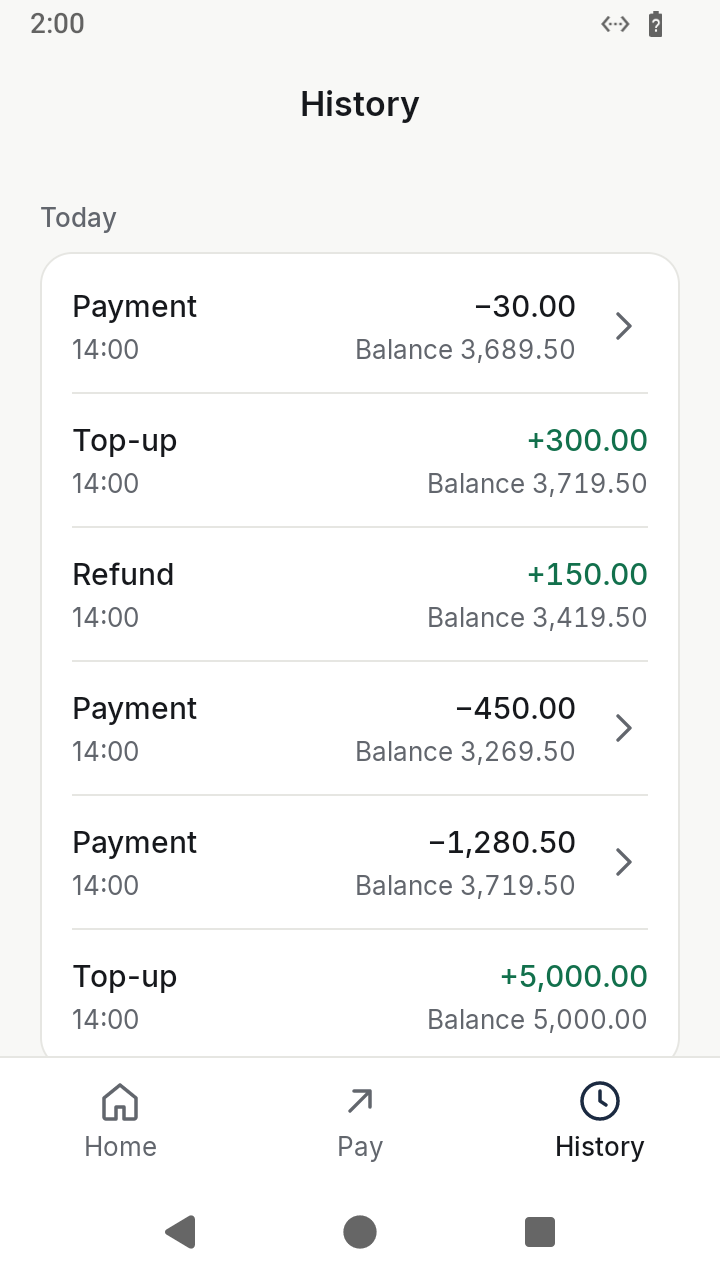
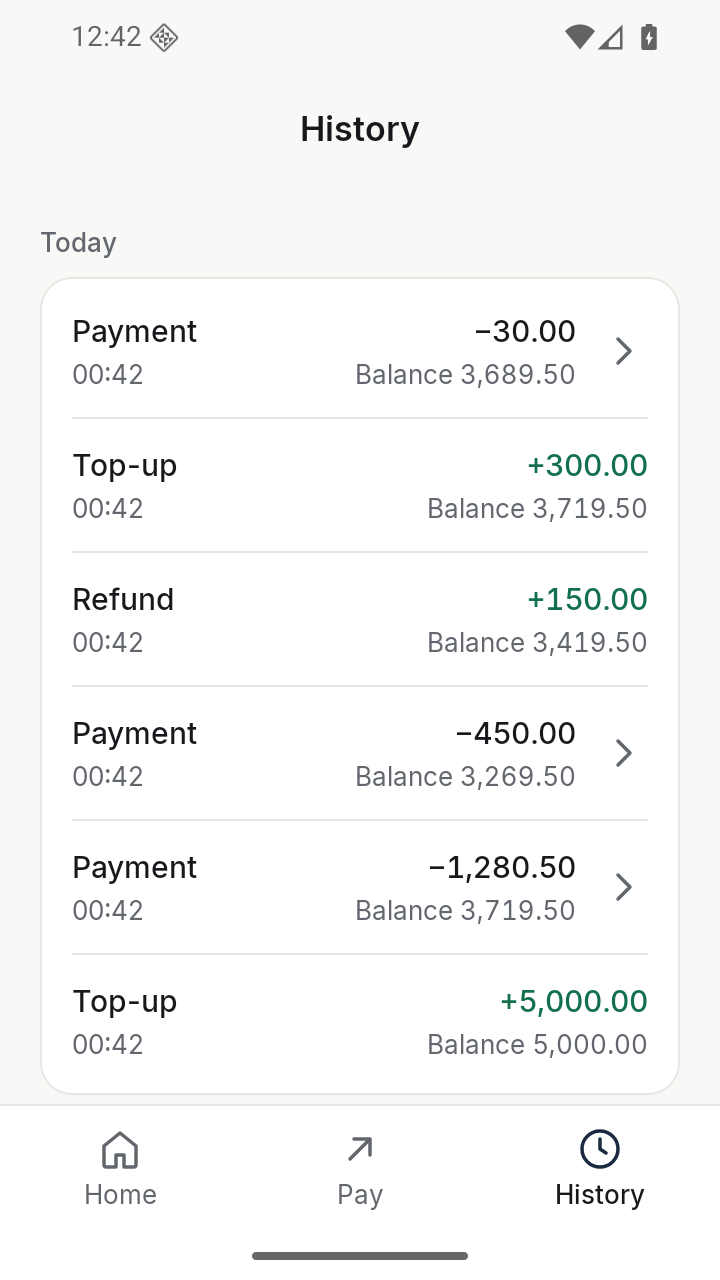
docs: SPEC 2.12, README and new screenshots of all three clients
SPEC: line height in the platform differences (§5), IOS-018 (§8, §9),
2.12 in §11. README: IOS-018, the iOS run count and a row in the table
of what was found.

The screenshots were taken again with tools/screenshots.py --ios: the
iOS ones for the new line heights, the web ones for 2.11's tabular
figures, the Android ones with the same data.

Claude-Session: https://claude.ai/code/session_01TJWnSQSGGduBikQ5E6x8NY

diff --git a/SPEC.md b/SPEC.md
@@ -2,11 +2,11 @@
 
 | | |
 |---|---|
-| Version | 2.11: the API's 12-digit limit in every client's amount grammar, and tabular figures on the web (see §11) |
+| Version | 2.12: the iOS app's text styles keep their line heights (see §11) |
 | Date | 2026-10-13 |
 | Status | **Web: implemented.** Rules marked *script* were checked against the running page with a browser script; *review* means checked by reading the code. **Android app: every screen implemented**; its rules are checked on redroid (Android 14) and on Google's Android Emulator (Android 16) by the Appium cases in `tests/app/`. A rule stays *planned* until it is checked in full. **iOS app: first stage** (Start, Home, Pay), checked on the iOS simulator by the Appium cases in `tests/ios/`, on a Mac, not yet in CI. The rule tables get an iOS column when the iOS app has every screen; until then §8 lists what its cases cover |
 | Code | Web: `web/src/` (React 19 + Vite), served by the API under `/app`. App: `android/` (Kotlin, Jetpack Compose). iOS: `ios/` (Swift, SwiftUI) |
-| Tests | Web: Playwright for Python, `tests/web/` (WEB-001 to WEB-017). App: Appium for Python, `tests/app/` (APP-001 to APP-017). iOS: Appium (XCUITest) for Python, `tests/ios/` (IOS-001, 003, 005, 006, 008) |
+| Tests | Web: Playwright for Python, `tests/web/` (WEB-001 to WEB-017). App: Appium for Python, `tests/app/` (APP-001 to APP-017). iOS: Appium (XCUITest) for Python, `tests/ios/` (IOS-001, 003, 005, 006, 008, 018) |
 
 ## 1. Purpose
 
@@ -132,6 +132,7 @@ The rules are written once; where the platforms differ, this table says how each
 | A pending attempt survives… | navigation inside the pay screen only | navigation, screen rotation and process death (K-08) | navigation inside the pay screen only, for now (K-08 planned) |
 | System back | the browser's back follows the URL history | defined by N-01 | none: iOS has no system Back button, and the app uses no navigation stack, so there is no back swipe either |
 | Digits in patterns (R-04) | `[0-9]`; JavaScript's `\d` is ASCII anyway | `[0-9]`: on Android `\d` matches any script's digits (the regex engine is ICU), on the JVM that runs the unit tests it does not. The API writes `[0-9]` too: Python's `\d` accepted `１００` | `[0-9]`, anchored with `\A` and `\z`: in ICU, `$` also matches before a final line break |
+| Line height (§3's text styles) | CSS `line-height`: half the leading above the text, half below | Compose `lineHeight`, centred in it (`LineHeightStyle.Alignment.Center`, no trim) | SwiftUI has no line height: the leading goes between lines (line spacing) and half of it above and below the text, scaled with Dynamic Type (`Theme.swift`); IOS-018 |
 | Text that does not fit (L-01) | the browser's flex layout: a label never shrinks below its longest word | Compose has no such floor: rows measure the label's longest word and leave it that width | the currency moves under the balance when it does not fit (`ViewThatFits`); not checked by a case yet |
 
 ## 6. Rules
@@ -372,6 +373,7 @@ a simulator, so pytest collects them only with `--ios`.
 | IOS-005 | APP-005 | Pay `10.555`, `1000000000000`, `99999999999999999999` (one run each; the decimal pad has no minus sign, `e` or space) → Confirm shows it as typed, with no *Balance after*; refused with E-01; nothing moves | R-02, R-04, K-04, E-01 | the 13-digit amount, on the build before 2.11: Confirm showed `1,000,000,000,000.00` |
 | IOS-006 | APP-006 | Pay more than the balance → refused with E-02; nothing charged; **Change amount** keeps the input | R-02, K-04, E-02 | |
 | IOS-008 | APP-008 | The server charges, the response is lost → *no answer* → **Retry** → receipt with `replayed`; both requests carried the same key; one row | K-03, K-06 | `no_idempotency`; by hand: the app creating a new key on every submit (§9) |
+| IOS-018 | — (iOS only) | The text styles keep their line heights (§5): on Home, the latest entries are 67 pt apart (12 + 22 + 2 + 18 + 12, and the hairline); on the payment receipt, the rows are 47 pt apart (12 + 22 + 12, and the hairline), as on the web and Android. Measured between rows, since SwiftUI reports a container's frame without its padding | §3 | the build before 2.12: 61 and 43 pt apart |
 
 **The two clients against each other.** The cases above prove that each client meets this
 specification; `tools/parity_check.py` proves that the two agree. It sends the same 44 amounts
@@ -406,7 +408,7 @@ spaces collapsed, as HTML displays them.
 script (§6), but nothing checks them on every change. None of them can move money.
 
 **iOS.** IOS-001, 003, 005, 006 and 008 cover R-02, R-04, K-01, K-03, K-04, K-06, D-01, D-02, E-01 and E-02 on the
-iOS app (§8); every other rule is still planned there.
+iOS app (§8), and IOS-018 the text styles' line heights (§3); every other rule is still planned there.
 
 **Rules that live only in the client.** WEB-007, 012 to 017 and APP-007, 012, 013, 014, 016, 017 test
 rules that live in the client (the in-flight guard, the disabled button, the pending attempt, the
@@ -485,6 +487,7 @@ say the payment had already gone through.
 
 | Version | Change |
 |---|---|
+| 2.12 | **The iOS app's text styles keep their line heights.** Found by the three-client measurement of 2.11: every line of text on iOS was only as high as Inter itself (18 pt for Body instead of 22, 16 for Caption instead of 18), so a ledger row was 61 pt instead of 67, a receipt row 43 instead of 47, and every screen sat tighter than on the web and Android. SwiftUI has no line height; the app had set the difference as line spacing, which goes only between lines. Half of it now also goes above and below the text, as CSS and Compose place it, scaled with Dynamic Type (§5). Measured again at the same width, the iOS screens are within 3 pt of Android's; the rest comes from Android's larger touch target (48 dp against 44 pt) and from SwiftUI's frames, which leave out the padding. IOS-018 measures two kinds of row; it failed on the build before. The screenshots in the README were taken again for all three clients (the web's also show 2.11's tabular figures). |
 | 2.11 | **Two defects found by comparing the three clients** on the same screens at the same width, with every hook's position and size measured. (1) **The clients' *plain* grammar had no 12-digit limit**, which the API's has: an amount of 13 or more digits was converted for Confirm although the API refuses it. Each client then broke in its own way: the **Android app crashed** on Confirm with a 20-digit amount (`NumberFormatException`: the cents overflowed a `Long`); the **web showed a different number** past 2^53, computed in floating point (`9007199254740993` as `9,007,199,254,740,992.00`, 20 nines as `100,000,000,000,000,000,000.00`); the iOS app converted them while the cents fit its 64-bit integer and showed longer ones as typed. All three now use the API's grammar (R-04), so an amount they convert always fits their integers, and a longer one is shown as typed. WEB-005 and APP-005 gain a 13-digit and a 20-digit input, IOS-005 is new, and `tools/parity_check.py` sends 12, 13 and 20 digits through both clients. No money could move: the API refused them all. (2) **The web lost its tabular figures in the build** (D-07, new): Vite's CSS minifier moved `font-variant-numeric: tabular-nums` before the `font` shorthand in the same rule, and the shorthand reset it; separately, the text style on a list row's amount reset the tabular figures the row passes down. Amounts were drawn in proportional figures (the receipt's `120.00` 7 px narrower than in the apps), so the digits in History did not line up. The development server does not minify, so the page looked right there. The text styles are now longhands, never the shorthand. WEB-017 measures the drawn digits; it failed in all three engines before the fix. Android's token test reads the longhand text styles. |
 | 2.10 | **The iOS app, first stage.** A SwiftUI app (`ios/`) with Start, Home and Pay (amount, Confirm in its four states, the receipt), built from the same design tokens (all equal to `tokens.css` and the Kotlin file when written) and the same Inter font files as the Android app. Four Appium cases with the XCUITest driver in `tests/ios/`, IOS-001, 003, 006 and 008, mirroring the Android cases of the same numbers through the same test proxy: the simulator shares the Mac's network, so the app reaches the proxy on 127.0.0.1 without forwarding. On an iPhone 17 simulator (iOS 26) they pass three runs in a row, in about 27 seconds each. `tools/fault_check.py --ios-only` requires IOS-008 to fail under `no_idempotency`, and it does; by hand, IOS-008 also fails when the app sends a new key on Retry. Nothing new was found: the four cases passed on their first run. Not in CI yet. |
 | 2.9 | **Accessibility checked on every change (web).** WEB-015 runs axe-core 4.13 (WCAG 2.2 A and AA) on 17 states of the page, and WEB-016 tabs through every screen; L-03 moves from *review* to *script*, and L-05 and L-06 are new. Found: (1) **focus hidden behind the sticky bars**: on a 360 × 640 screen, Tab to *Use another wallet* on Home left it entirely behind the tab bar and Shift+Tab left the balance toggle behind the top bar (Chromium and WebKit); in Firefox, Tab left a History row behind the tab bar. The page now sets scroll padding for both bars. It came up while checking an axe `target-size` report, which itself depended on the scroll position at the time of the scan and is left to L-02. (2) **axe accepts a placeholder as a field's name**: with the amount field's label detached, axe still passed, so WEB-015 also requires a visible `<label>` for every input. Three mutations prove the new checks can fail, in all three engines. The scan found nothing else: names, contrast and ARIA already passed. |

diff --git a/README.md b/README.md
@@ -14,7 +14,7 @@ in the same pytest suite: 17 cases in three browser engines (Chromium, WebKit, F
 against the database as well as the page. A native **Android app** (Kotlin, Jetpack Compose) has the
 same screens and rules, and **Appium** tests it in the same suite, through a test proxy that can hold
 a request or lose its response. A native **iOS app** (SwiftUI) is at its first stage: Start, Home and
-Pay, with five Appium (XCUITest) cases on the iOS simulator, run on a Mac and not yet in CI.
+Pay, with six Appium (XCUITest) cases on the iOS simulator, run on a Mac and not yet in CI.
 
 The main flows are also provided as a **Postman collection** for manual use, run by **Newman** in CI.
 A **k6** load test, followed by a database reconciliation, can be triggered on demand.
@@ -458,6 +458,7 @@ the Android and web cases with the same number (IOS-008 tests what APP-008 and W
 | IOS-005 | `10.555` and amounts of 13 and 20 digits are shown as typed on Confirm and refused; nothing moves | the 13 digits, on the build before 2.11 |
 | IOS-006 | A payment above the balance is refused; *Change amount* keeps the input | |
 | IOS-008 | The server charges, the response is lost, the user retries: same key, "already gone through", one payment | `no_idempotency`; by hand: the app sending a new key on Retry |
+| IOS-018 | The text styles keep their line heights: ledger rows 67 pt apart and receipt rows 47, as on the web and Android | the build before 2.12 (61 and 43) |
 
 **Running** (macOS with Xcode 26 or later, Appium 3 with the xcuitest driver):
 
@@ -467,13 +468,13 @@ xcodebuild -project ios/Wallet.xcodeproj -scheme Wallet -configuration Debug \
     -destination 'generic/platform=iOS Simulator' -derivedDataPath ios/build build
 xcrun simctl boot "iPhone 17"                    # any iPhone simulator: one booted, or choose with IOS_UDID
 appium --address 127.0.0.1 --port 4723           # another terminal (appium driver install xcuitest, once)
-.venv/bin/pytest tests/ios --ios                 # 5 cases in 7 runs, about 50 seconds
+.venv/bin/pytest tests/ios --ios                 # 6 cases in 8 runs, about 55 seconds
 .venv/bin/python tools/fault_check.py --ios-only # planted defects, iOS cases only
 ```
 
 On an iPhone 17 simulator (iOS 26, Xcode 27) the four cases passed three runs in a row, about 27
-seconds each; with IOS-005 (version 2.11), the 7 runs passed three times in a row, about 48 seconds
-each. The first session on a machine also builds WebDriverAgent, which takes a few minutes once.
+seconds each; with IOS-005 and IOS-018 (versions 2.11 and 2.12), the 8 runs passed three times in
+a row, about 54 seconds each. The first session on a machine also builds WebDriverAgent, which takes a few minutes once.
 Like the Android tests, they are collected only with `--ios`; with `--ios` but no simulator, Appium
 server or app build, every test fails and says what is missing.
 
@@ -696,5 +697,6 @@ Each of these is recorded in the commit history.
 | The API document at `/docs` described responses the API never gives: a `422 Validation Error` shaped `{"detail": [...]}` on every route, successes as any content, and Idempotency-Key as optional | Preparing a demo in Swagger UI: a validation error is really a 400 `INVALID_REQUEST`. The JSON Schema tests checked the responses, never the document | Each route declares its real responses (`app/responses.py`, documentation only: responses are sent as before); FastAPI's default 422 is removed and the key is marked required. CTR-004 requires the document to list exactly the statuses the API answers with, each in the documented format; it fails on the previous version |
 | Keyboard focus could land entirely behind a sticky bar: on a 360 × 640 screen, Tab to *Use another wallet* on Home left it behind the tab bar and Shift+Tab left the balance toggle behind the top bar (Chromium, WebKit); in Firefox, a History row ended behind the tab bar | Checking axe's report that the same link was too small (`target-size`, WebKit only). That report depended on the scroll position at the time of the scan; the focus problem was real | The page sets scroll padding for its sticky top bar and tab bar, and WEB-016 tabs through every screen. axe's `target-size` is left to WEB-011, which requires 44 × 44 px |
 | A 20-digit amount crashed the Android app on Confirm; the web showed a different number from 2^53 up (`9007199254740993` as `…992.00`) | Comparing the three clients' code and screens side by side: the iOS app, written last, guarded its cents against overflow, and the other two did not. Reproduced on the emulator: `NumberFormatException` in `Money.toCents` | The API takes at most 12 digits before the point, and the clients' *plain* grammar had no such limit. All three now use the API's grammar exactly, so an amount they convert always fits, and a longer one is shown as typed (SPEC R-04). WEB-005, APP-005 and IOS-005 send 13 and 20 digits |
+| Every row of text on iOS was shorter than on the web and Android: a ledger row 61 pt instead of 67, a receipt row 43 instead of 47 | The same comparison: positions on iOS drifted upward screen by screen | SwiftUI has no line height. The app set the difference from Inter's own as line spacing, which goes only between lines, so one line of Body was 18 pt high instead of 22. Half of it now also goes above and below the text, as CSS and Compose do. IOS-018 measures the distance between rows and failed before the fix |
 | On the web, amounts were not in tabular figures: the digits in History did not line up, and the receipt's `120.00` was 7 px narrower than in the apps | The same comparison, measuring every hook at the same width. The CSS said `tabular-nums`, and the development server showed it | Vite's CSS minifier moved `font-variant-numeric` before the `font` shorthand in the same rule, and the shorthand reset it; a list row's text style also reset what the row passed down. The text styles are now longhands. WEB-017 measures the drawn digits and failed in all three engines before the fix |
 | With the amount field's label detached, leaving only the placeholder `0.00`, the axe scan still passed | The mutation check for WEB-015: the mutant survived in all three engines | axe counts a placeholder as a field's name; a placeholder disappears as soon as the user types. WEB-015 now also requires every input to be tied to a visible `<label>` |
